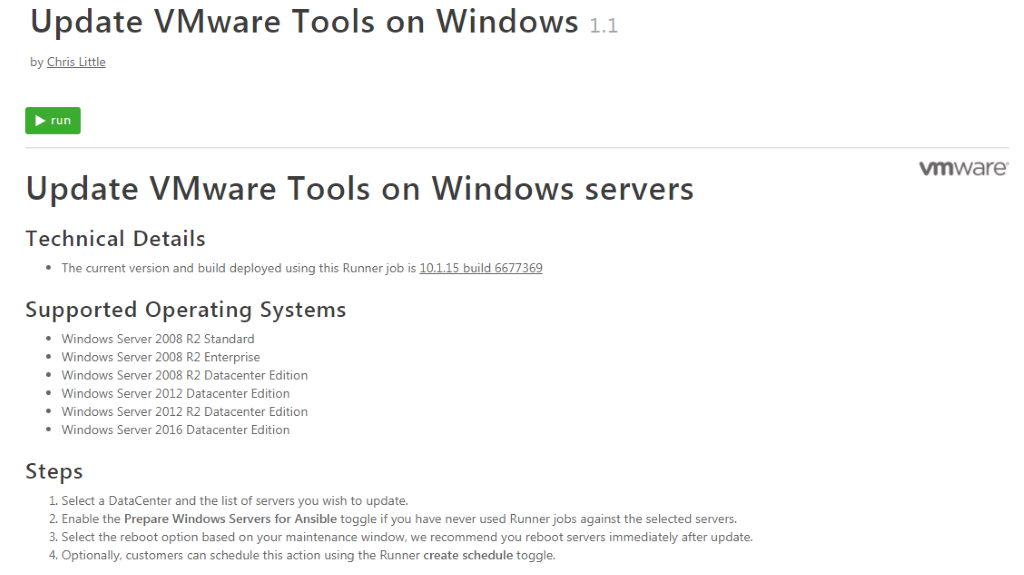
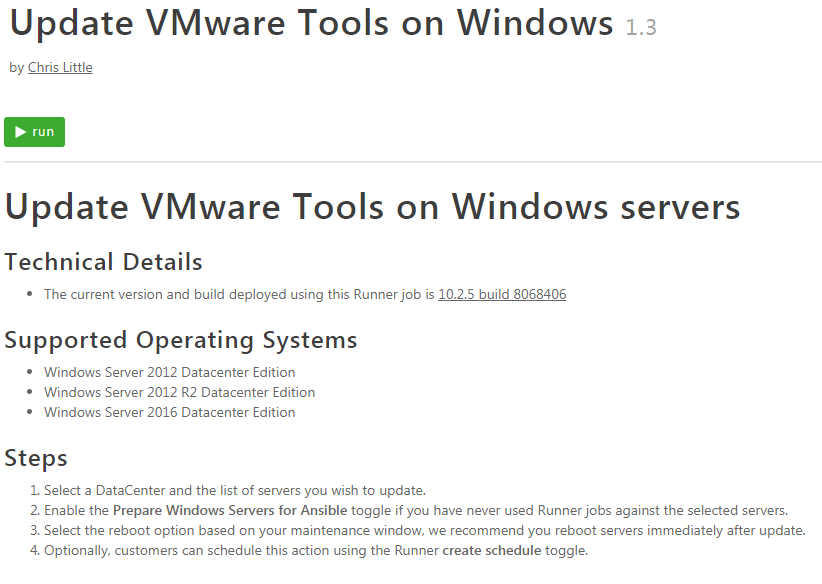
update vmware tools kb
update vmware tools kb

diff --git a/Servers/Self-Service-Updates-of-VMware-Tools.md b/Servers/Self-Service-Updates-of-VMware-Tools.md
@@ -1,6 +1,6 @@
 {{{
   "title": "Self-Service Updates of VMware Tools",
-  "date": "12-5-2017",
+  "date": "5-1-2018",
   "author": "Aaron LeMoine",
   "attachments": [],
   "related-products" : [],
@@ -27,18 +27,26 @@ If you would like to update the version of VMware Tools on your servers, this is
 
 ### Detailed Steps for Windows Servers using Automation
 
-1. Within the [Control Portal](https://control.ctl.io/) navigate to **Orchestration > Runner** in the menu.
+1. Validate automation can be leveraged for your Windows Operating system. The list of supported operating systems are:
+
+    * Windows Server 2012 Datacenter Edition
+    * Windows Server 2012 R2 Datacenter Edition
+    * Windows Server 2016 Datacenter Edition
+
+    Customers who consume an unsupported operating system should use the manual update method shown later in this article.
+
+2. Within the [Control Portal](https://control.ctl.io/) navigate to **Orchestration > Runner** in the menu.
 
     ![Runner menu in portal](../images/Self-Service-Updates-of-VMware-Tools-01.png)
 
-2. Select the **Update VMware Tools on Windows** Runner job by using the **Search** function or browsing the directory of public jobs.
+3. Select the **Update VMware Tools on Windows** Runner job by using the **Search** function or browsing the directory of public jobs.
 
     ![vmware tools runner job](../images/Self-Service-Updates-of-VMware-Tools-02.png)
 
 
-3. Review the **Update VMware Tools on Windows** runner job supported operating systems and step-by-step instructions carefully.
+4. Review the **Update VMware Tools on Windows** runner job supported operating systems and step-by-step instructions carefully.
 
-4. Select **Run** and populate the Runner job with the location, servers and other choices in the job. Optionally, use the scheduler to set the update to occur as a specific date/time.
+5. Select **Run** and populate the Runner job with the location, servers and other choices in the job. Optionally, use the scheduler to set the update to occur as a specific date/time.
 
 ### Detailed Steps for Windows Servers using manual methodology
 To update VMware Tools for Windows, you can download them from VMware's website and run the .exe installer. You can run the installer interactively or silently. It is recommended that you reboot after installation.
